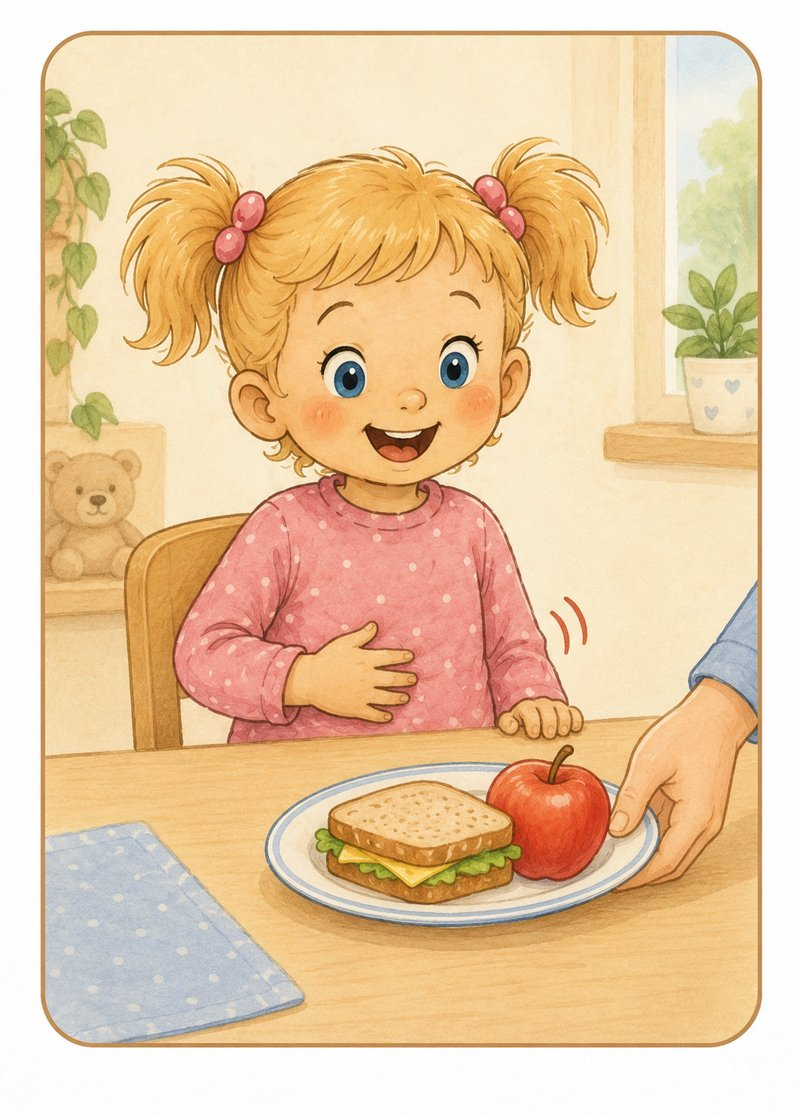
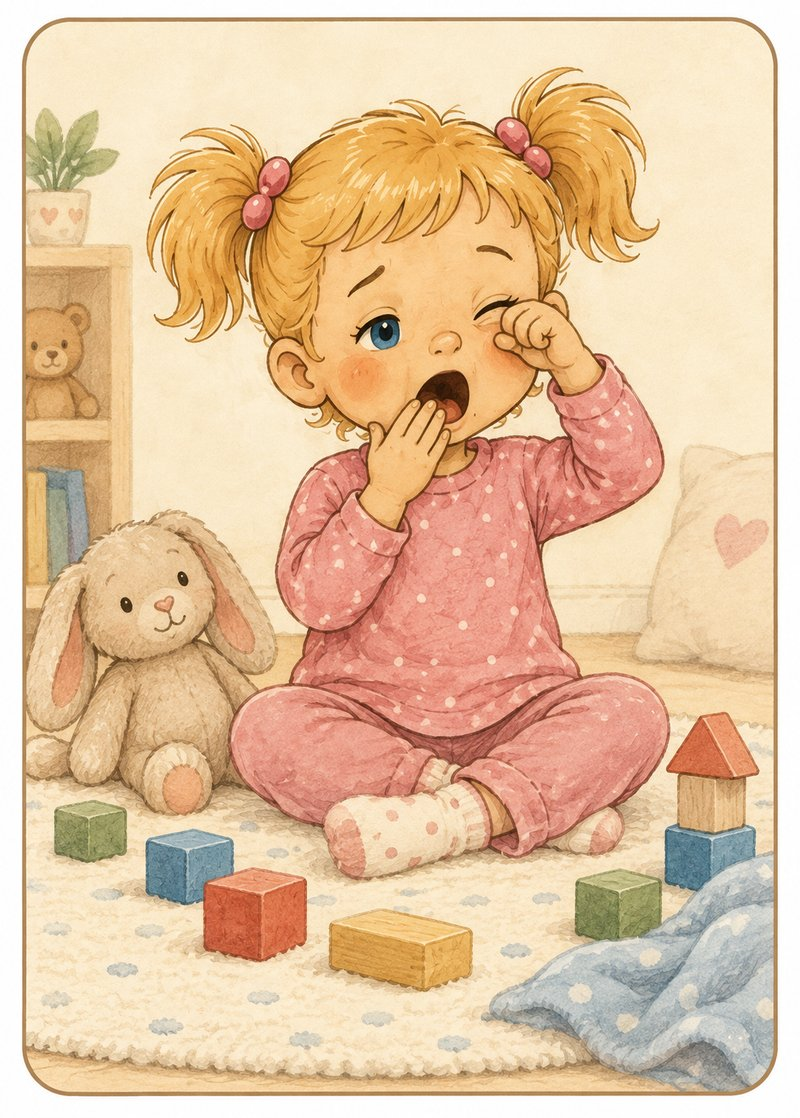
Add files via upload

diff --git a/src/roza-mode/uczucia/CoMozePomoc.tsx b/src/roza-mode/uczucia/CoMozePomoc.tsx
@@ -1,5 +1,4 @@
 import { useEffect, useState } from 'react'
-import type * as React from 'react'
 import { useNavigate } from 'react-router-dom'
 import { FiArrowLeft, FiRotateCcw } from 'react-icons/fi'
 import RozaModeShell from '../RozaModeShell'
@@ -12,11 +11,8 @@ export default function CoMozePomoc() {
   const navigate = useNavigate()
   const [roundIndex, setRoundIndex] = useState(0)
   const [choiceIdxs, setChoiceIdxs] = useState<number[]>([])
-  const [solved, setSolved] = useState(false)
-  const [draggingIdx, setDraggingIdx] = useState<number | null>(null)
-  const [dragPos, setDragPos] = useState({ x: 0, y: 0 })
-  const [dragSize, setDragSize] = useState({ w: 100, h: 140 })
-  const [rejectIdx, setRejectIdx] = useState<number | null>(null)
+  const [wobbleIdx, setWobbleIdx] = useState<number | null>(null)
+  const [correctFlash, setCorrectFlash] = useState(false)
 
   const round = FEELINGS[roundIndex]
   const allDone = roundIndex >= FEELINGS.length
@@ -26,51 +22,19 @@ export default function CoMozePomoc() {
     const others = FEELINGS.map((_, i) => i).filter((i) => i !== roundIndex)
     const distractor = others[Math.floor(Math.random() * others.length)]
     setChoiceIdxs(shuffle([roundIndex, distractor]))
-    setSolved(false)
-    setDraggingIdx(null)
+    setWobbleIdx(null)
+    setCorrectFlash(false)
     // eslint-disable-next-line react-hooks/exhaustive-deps
   }, [roundIndex])
 
-  useEffect(() => {
-    if (draggingIdx === null) return
-    function onMove(e: PointerEvent) {
-      e.preventDefault()
-      setDragPos({ x: e.clientX, y: e.clientY })
-    }
-    function onUp(e: PointerEvent) {
-      finishDrag(e.clientX, e.clientY)
-    }
-    window.addEventListener('pointermove', onMove, { passive: false })
-    window.addEventListener('pointerup', onUp)
-    window.addEventListener('pointercancel', onUp)
-    return () => {
-      window.removeEventListener('pointermove', onMove)
-      window.removeEventListener('pointerup', onUp)
-      window.removeEventListener('pointercancel', onUp)
-    }
-    // eslint-disable-next-line react-hooks/exhaustive-deps
-  }, [draggingIdx])
-
-  function startDrag(e: React.PointerEvent, idx: number) {
-    if (solved) return
-    const rect = e.currentTarget.getBoundingClientRect()
-    setDragSize({ w: rect.width, h: rect.height })
-    setDraggingIdx(idx)
-    setDragPos({ x: e.clientX, y: e.clientY })
-  }
-
-  function finishDrag(clientX: number, clientY: number) {
-    const idx = draggingIdx
-    setDraggingIdx(null)
-    if (idx === null) return
-    const el = document.elementFromPoint(clientX, clientY) as HTMLElement | null
-    const dropZone = el?.closest('[data-drop-zone]')
-    if (dropZone && idx === roundIndex) {
-      setSolved(true)
-      setTimeout(() => setRoundIndex((i) => i + 1), 1500)
-    } else if (dropZone) {
-      setRejectIdx(idx)
-      setTimeout(() => setRejectIdx(null), 400)
+  function pick(idx: number) {
+    if (!round || correctFlash) return
+    if (idx === roundIndex) {
+      setCorrectFlash(true)
+      setTimeout(() => setRoundIndex((i) => i + 1), 1200)
+    } else {
+      setWobbleIdx(idx)
+      setTimeout(() => setWobbleIdx(null), 400)
     }
   }
 
@@ -110,53 +74,31 @@ export default function CoMozePomoc() {
           </div>
         </div>
       ) : (
-        <div className="flex flex-1 flex-col items-center justify-center gap-8">
-          <p className="text-3xl font-extrabold text-navy">Co może pomóc?</p>
+        <div className="flex flex-1 flex-col items-center justify-center gap-8 [@media(orientation:landscape)]:flex-row [@media(orientation:landscape)]:gap-14">
+          <img src={getAsset(round.feelingAsset).src} alt={round.label} className={`${CARD_CLASS} shadow-soft`} />
 
-          <div
-            data-drop-zone
-            className={`flex items-center justify-center rounded-3xl border-4 border-dashed p-3 transition-colors ${
-              solved ? 'border-sage bg-sage/15' : 'border-navy/15 bg-white/40'
-            }`}
-          >
-            <img src={getAsset(round.feelingAsset).src} alt={round.label} className={CARD_CLASS} />
-          </div>
-
-          {!solved && (
+          <div className="flex flex-col items-center gap-6">
+            <p className="text-3xl font-extrabold text-navy">Co może pomóc?</p>
             <div className="flex flex-wrap justify-center gap-6">
               {choiceIdxs.map((idx) => {
                 const f = FEELINGS[idx]
-                if (idx === draggingIdx) return <div key={idx} className={CARD_CLASS} />
+                const isCorrectTapped = correctFlash && idx === roundIndex
                 return (
-                  <div
+                  <button
                     key={idx}
-                    onPointerDown={(e) => startDrag(e, idx)}
-                    style={{ touchAction: 'none' }}
-                    className={`cursor-grab overflow-hidden rounded-2xl shadow-soft ${
-                      rejectIdx === idx ? 'animate-[wobble_0.4s_ease-in-out]' : ''
-                    }`}
+                    onClick={() => pick(idx)}
+                    className={`overflow-hidden rounded-2xl shadow-soft transition-transform active:scale-95 ${
+                      isCorrectTapped ? 'scale-110 ring-4 ring-sage' : ''
+                    } ${wobbleIdx === idx ? 'animate-[wobble_0.4s_ease-in-out]' : ''}`}
                   >
-                    <img src={getAsset(f.actionAsset).src} alt={f.actionLabel} className={CARD_CLASS} draggable={false} />
-                  </div>
+                    <img src={getAsset(f.actionAsset).src} alt={f.actionLabel} className={CARD_CLASS} />
+                  </button>
                 )
               })}
             </div>
-          )}
+          </div>
         </div>
       )}
-
-      {draggingIdx !== null &&
-        (() => {
-          const f = FEELINGS[draggingIdx]
-          return (
-            <div
-              className="pointer-events-none fixed z-50"
-              style={{ left: dragPos.x - dragSize.w / 2, top: dragPos.y - dragSize.h / 2, width: dragSize.w, height: dragSize.h }}
-            >
-              <img src={getAsset(f.actionAsset).src} alt="" className="h-full w-full rounded-2xl object-contain shadow-soft" />
-            </div>
-          )
-        })()}
     </RozaModeShell>
   )
 }
